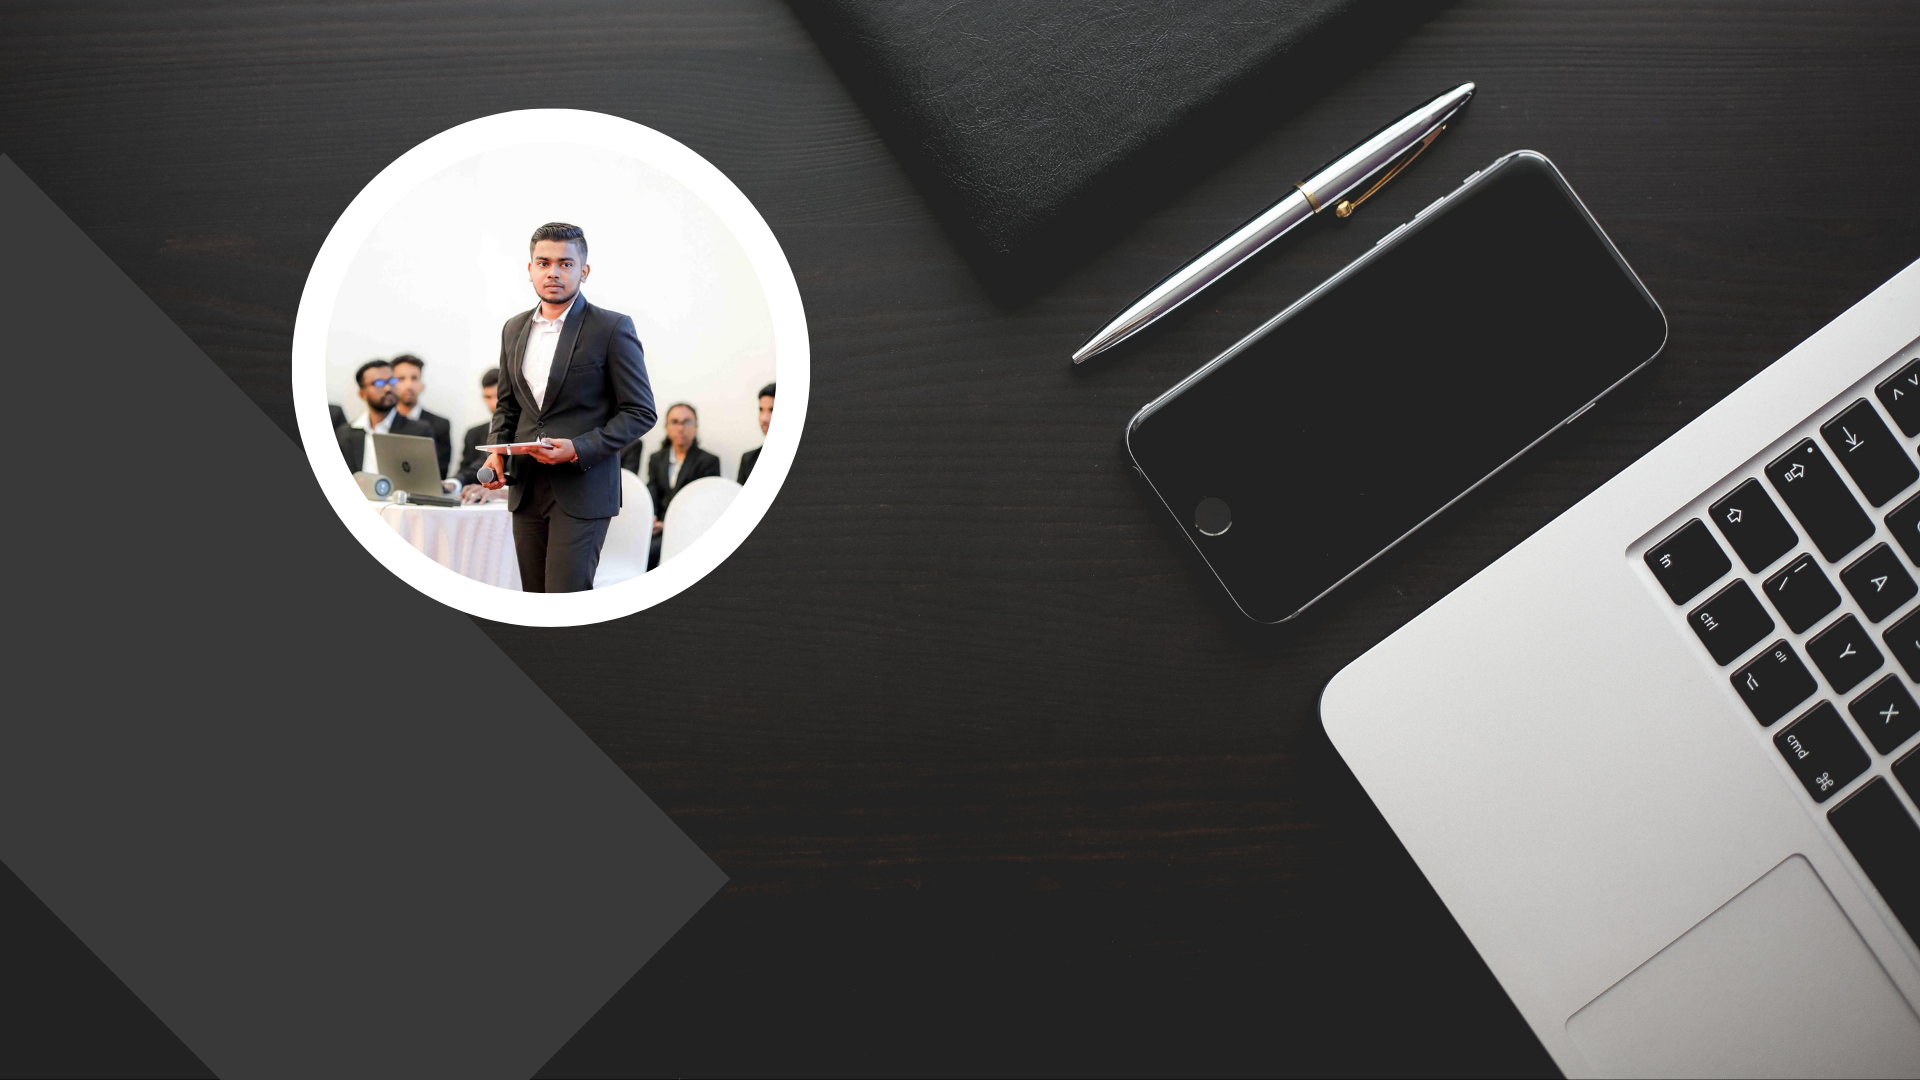
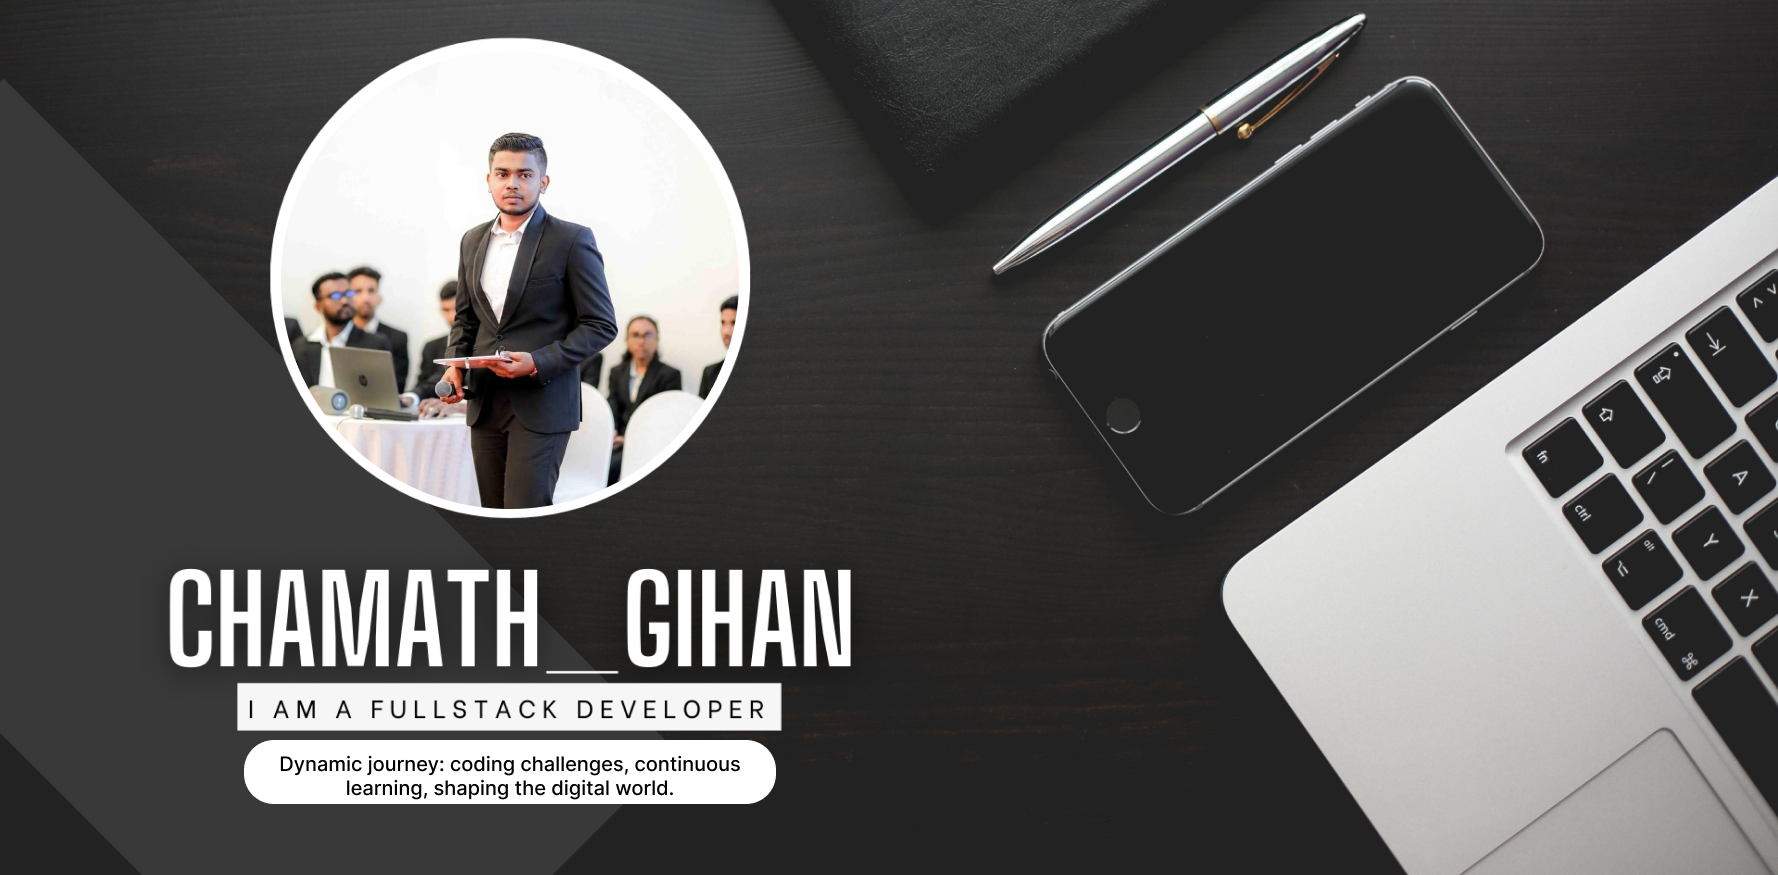
home creation

diff --git a/assets/styles/laptop.css b/assets/styles/laptop.css
@@ -101,6 +101,31 @@ body>main>section:nth-child(2)>section:nth-child(3)>h1{
 
 }
 
+.home-about{
+    color: #FFFFFF;
+    margin-right: 44vw;
+    margin-top: 25vw;
+    font-family: "Nimbus Roman";
+}
+
+.home-about>h1{
+    margin-left: 9vw;
+    font-size: 3vw;
+}
+
+
+.home-about>h3:nth-child(2){
+    margin-left: 7.5vw;
+    font-size: 2vw;
+}
+
+.home-about>h3:nth-child(3){
+    background-color: #FFFFFF;
+    color: black;
+    border-radius: 1vw;
+    margin-left: 1vw;
+    font-size: 1vw;
+}
 .home-links{
     z-index: 2;
     display: flex;
